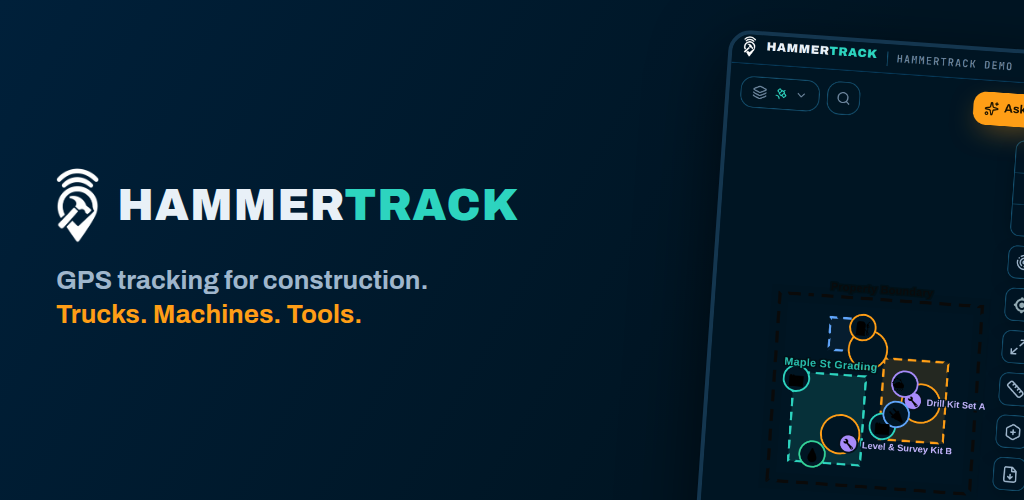
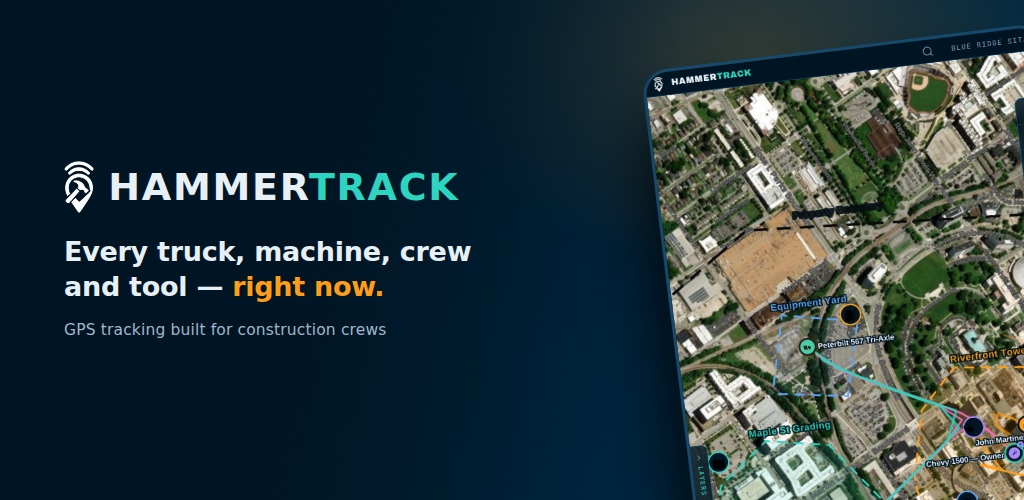
Store listing cleanup: real screenshots, tagline, rebuilt feature graphic
The Play listing has been live since Aug 21 showing RAW BROWSER SCREENSHOTS
— URL bar, tabs, the overflow menu and Android nav buttons all visible in
every shot — and no tagline under "HammerTrack · Business", where every
competitor shows one.

The store-assets/ set in the repo wasn't much better: captured with no map
tiles loaded, so the hero screenshot was a black void with a few dashed
rectangles, and the zones were the pre-Aug-23 axis-aligned demo.

Re-shot all of it against the current app:
- 6 captioned phone screenshots (was 5), each a real screen over real
  satellite imagery: live fleet map, theft alert, the asset list showing a
  tool riding in a truck, fleet reports with real dollars, replay trails,
  and job-site zones. Brand caption band on top, device-framed app below.
- Android 1080x1920 · iOS 6.7" 1290x2796 · iOS 12.9" 2048x2732, all
  generated from one composition so they stay consistent.
- Feature graphic rebuilt on the same map shot.
- The zones capture hides the in-app "you're viewing the demo" notice — a
  real product affordance with no business in a store screenshot.
- Listing doc: feature bullets refreshed to what actually shipped (replay,
  digests, morning briefing, scan/bulk setup, ask-anything), plus an
  explicit "what to re-upload in Play Console" block. The short description
  is written there and is the field that renders as the missing tagline.

Brian has to do the upload — Play Console can't be driven from here.
[…]

diff --git a/docs/APP-STORE-LISTING.md b/docs/APP-STORE-LISTING.md
@@ -1,8 +1,20 @@
 # App Store & Play Store Listing Pack — HammerTrack
 
-*Ready to paste when the Apple Developer / Google Play accounts open (gated on
-the D-U-N-S number). Reviewer-notes + privacy answers included — those are what
-actually stall a first submission.*
+*Reviewer-notes + privacy answers included — those are what actually stall a
+first submission.*
+
+> **Aug 28 2026 — listing cleanup.** The app has been live in Play Production
+> since Aug 21, but the listing was showing RAW BROWSER SCREENSHOTS (URL bar,
+> tabs, Android nav buttons visible) and no tagline under the title. Fresh
+> assets are in `store-assets/` — 6 captioned phone screenshots per platform
+> plus a rebuilt feature graphic, all shot against real satellite imagery
+> (the previous set was captured with no map tiles loaded, so the map read as
+> a black void). **What to re-upload in Play Console → Store listing:**
+> 1. Short description — the field that renders as the italic line under
+>    "HammerTrack · Business" in search results. It is currently EMPTY.
+> 2. Phone screenshots — replace all with `store-assets/android-phone/*.png`
+>    (1080×1920, in filename order).
+> 3. Feature graphic — `store-assets/feature-graphic-1024x500.png`.
 
 ---
 
@@ -40,9 +52,13 @@ gps,fleet,tracker,construction,equipment,tools,geofence,telematics,theft,obd2,jo
 > • After-hours theft & left-site alerts to your phone's lock screen
 > • Bluetooth tool tags — see which truck your laser level is in
 > • Job-site hours & cost tracking — turn location into job costs
+> • Replay any day: speed-coloured trails, every stop, every site
 > • Maintenance reminders by engine hours, mileage, or date
-> • Trip history & daily site logs
-> • QuickBooks-ready job costing
+> • Trip history, daily site logs, and a time clock that knows the job
+> • Weekly owner digest and a workday-morning site briefing
+> • Set up in minutes — scan a tracker's barcode, or paste your whole
+>   fleet in from a spreadsheet
+> • Ask it anything about your operation, in plain English
 >
 > **Priced for contractors, not corporations** — a fraction of what the big
 > enterprise platforms charge, with no per-site setup fees.
